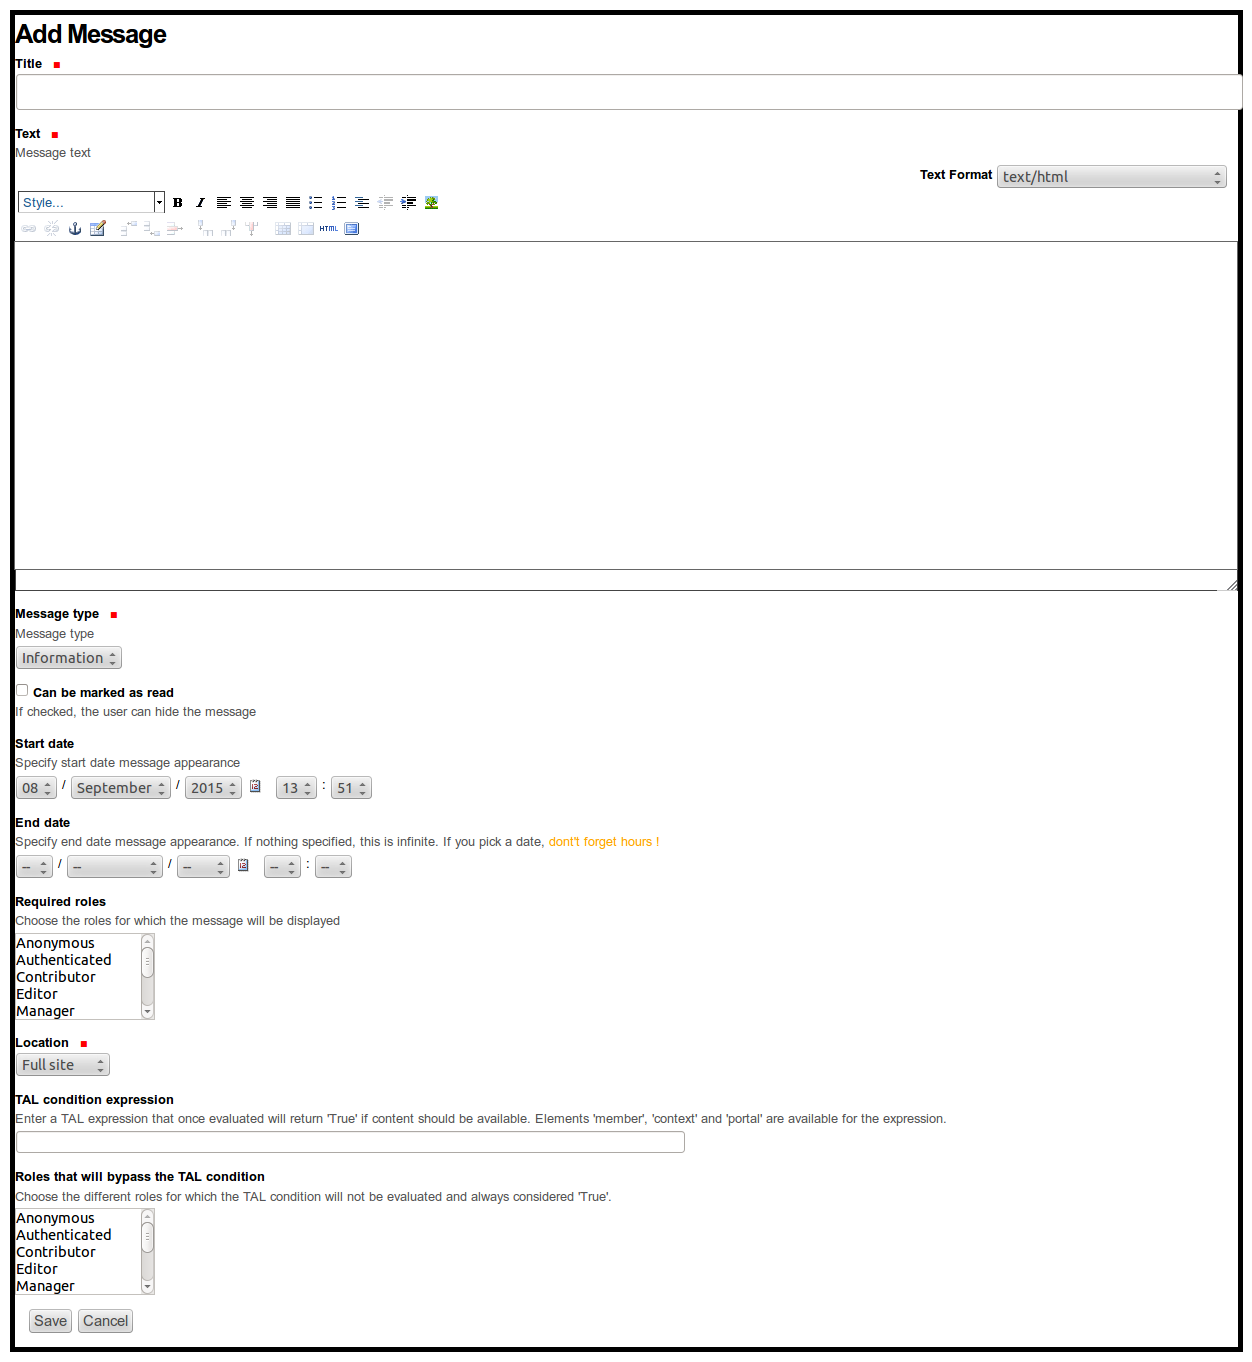
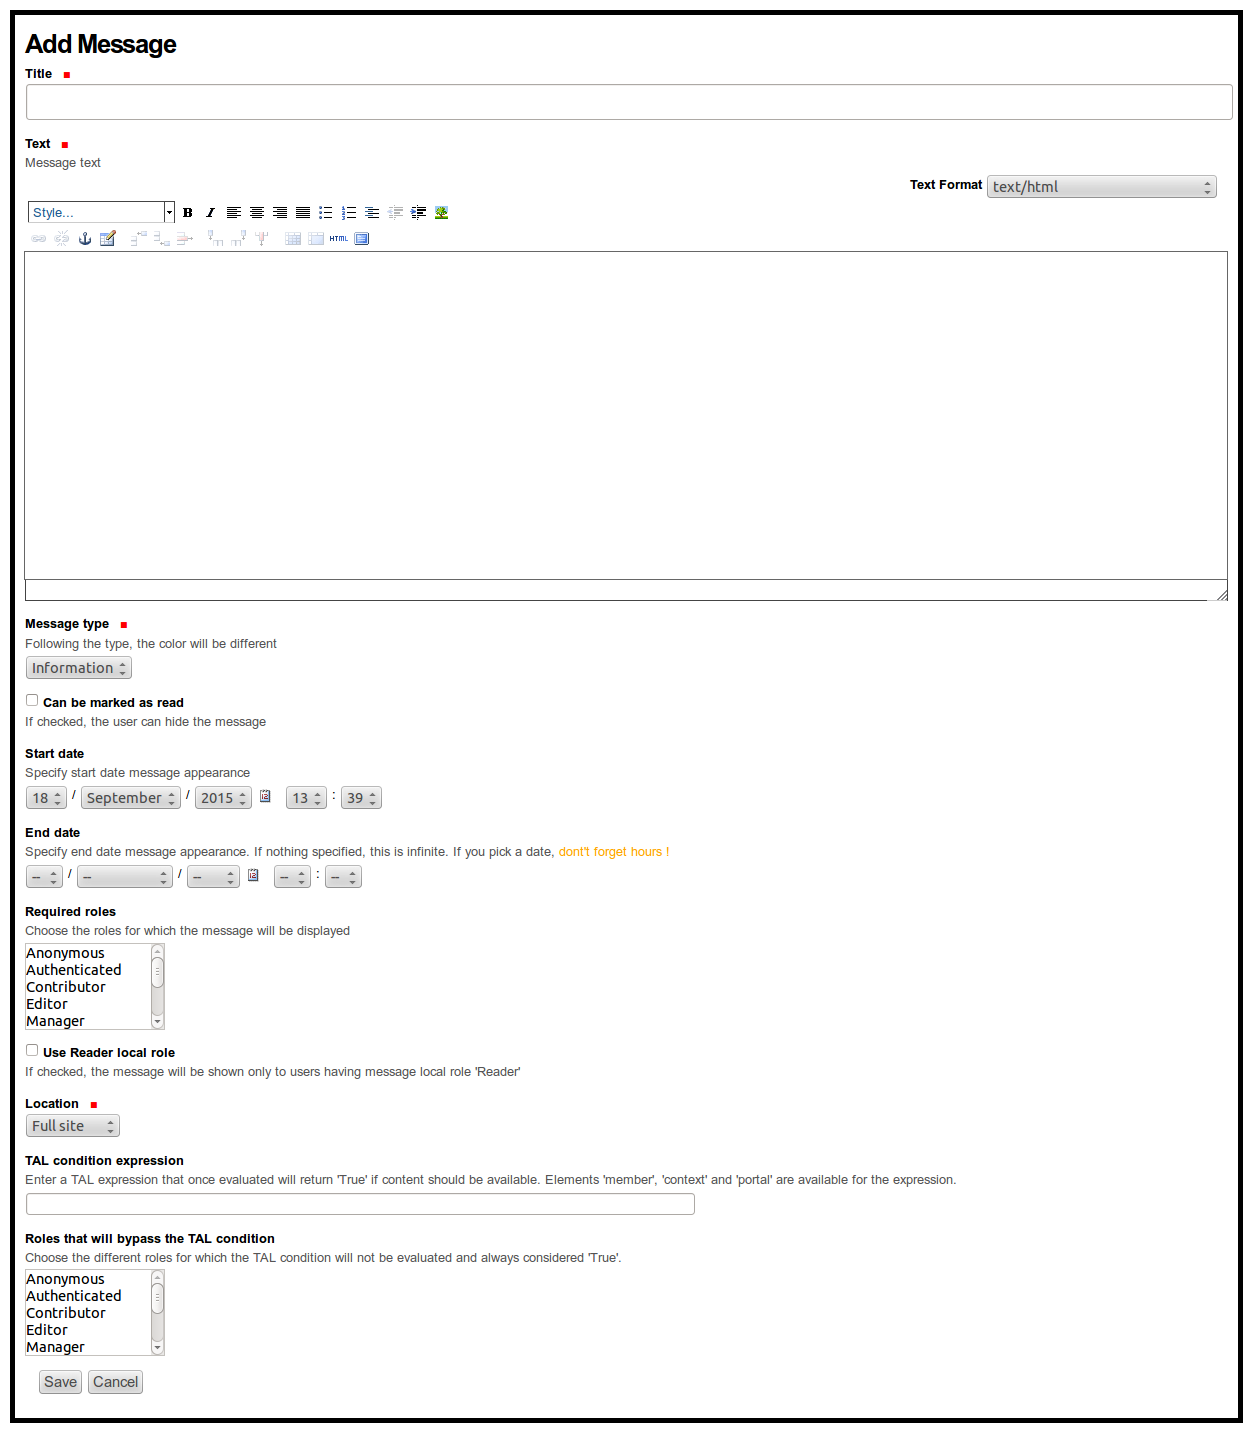
Updated README and images

diff --git a/README.rst b/README.rst
@@ -35,6 +35,7 @@ A message contains the following configuration attributes:
 * start date : displaying start date (optional)
 * end date : displaying end date (optional)
 * required roles : user must have one of the required roles (optional)
+* use local roles : message displayed for users having Reader local role on message (optional)
 * location : full site or homepage only
 
 The collective.behavior.talcondition is enabled, providing 2 attributes. 
@@ -52,17 +53,15 @@ The collective.behavior.talcondition is enabled, providing 2 attributes.
 A workflow is provided with the following states:
 
 * inactive : not displayed
-* activated for anonymous : displayed for anonymous users
-* activated for members : displayed only for authenticated users
-* activated for localroles : displayed only for authenticated users having local reader role
+* activated : displayed
 
 The hiding functionality uses a cookie. It is necessary to deactivate a message to "reset" the cookie.
-When activating again, the message will be displayed. 
+When activating again, the message will be displayed again even for users that hide it. 
 
 The optional examples profiles add some usefull examples that can be activated when needed:
 
-* message for scheduled maintenance : must be activated for anonymous or members
-* message for imminent or current maintenance : must be activated for anonymous
+* message for scheduled maintenance (limited to Member)
+* message for imminent or current maintenance : (given to anonymous)
 * message for staging site
 
 Improvements
